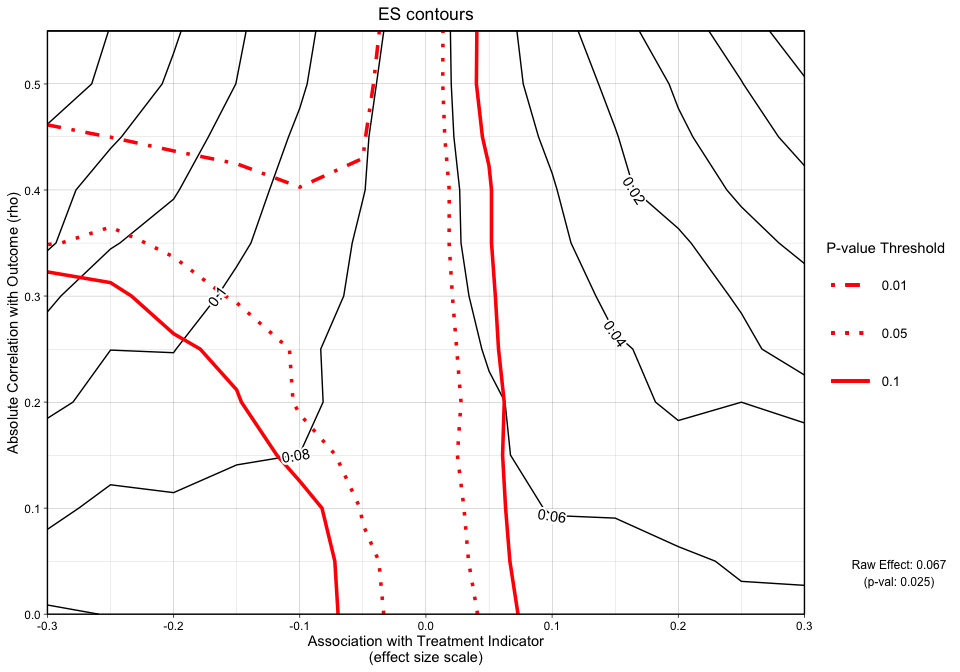
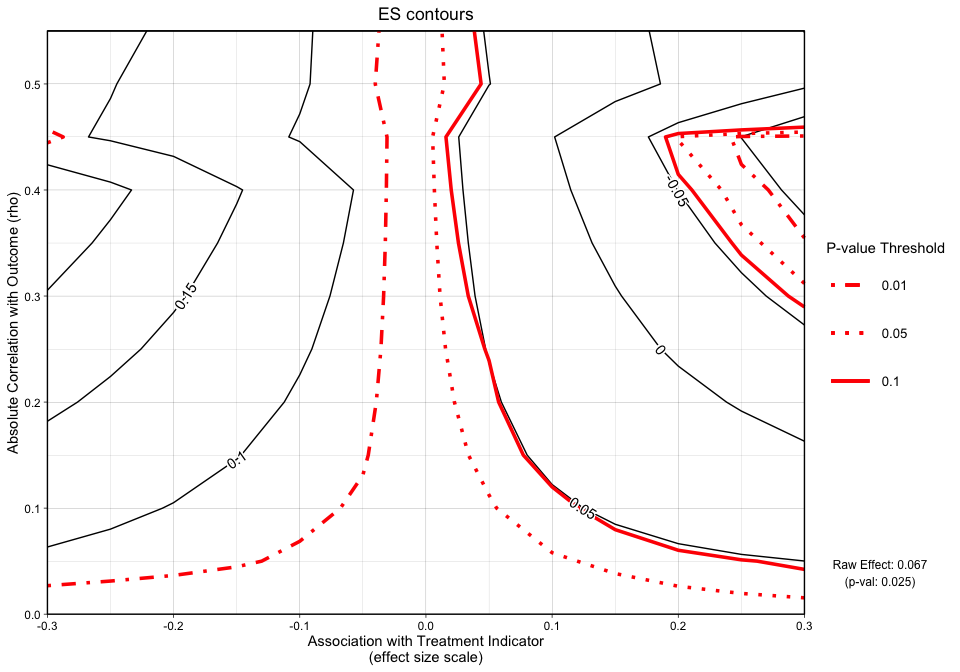
update vignette and documentation

diff --git a/README.md b/README.md
@@ -5,14 +5,14 @@
 # Introduction
 
 *Note: This is a work in progress.. This document was lasted upated
-2020-08-11 08:30:09*
+2020-09-21 11:08:53*
 
 The <ins>O</ins>mitted <ins>V</ins>ariable <ins>T</ins>ool (`OVtool`)
 package was designed to assess the sensitivity of research findings to
 omitted variables when estimating causal effects using propensity score
 (PS) weighting. This package includes graphics and summary results that
 will enable a researcher to quantify the impact an omitted variable
-would have on their results. Burgette et al. (in preparation) describe
+would have on their results. Burgette et al. (in preparation) describe
 the methodology behind the primary function in this package, `ov_sim()`.
 This document presents syntax for the implementation of the `ov_sim()`
 function and provides an example of how to interpret the packages’
@@ -75,21 +75,6 @@ you restart your R session after running:*
 ``` r
 # install.packages("devtools")
 devtools::install_github("jpane24/OVtool") 
-```
-
-    #> 
-    #>      checking for file ‘/private/var/folders/ks/ll8v5y8x6rz_cgvtgk6zln90b6fd3c/T/Rtmpr3Kadg/remotes1698f6c96971f/jpane24-OVtool-8e2740f/DESCRIPTION’ ...  ✓  checking for file ‘/private/var/folders/ks/ll8v5y8x6rz_cgvtgk6zln90b6fd3c/T/Rtmpr3Kadg/remotes1698f6c96971f/jpane24-OVtool-8e2740f/DESCRIPTION’
-    #>   ─  preparing ‘OVtool’:
-    #>      checking DESCRIPTION meta-information ...  ✓  checking DESCRIPTION meta-information
-    #>   ─  checking for LF line-endings in source and make files and shell scripts
-    #>   ─  checking for empty or unneeded directories
-    #>   ─  building ‘OVtool_1.0.0.tar.gz’
-    #>      Warning: invalid uid value replaced by that for user 'nobody'
-    #>    Warning: invalid gid value replaced by that for user 'nobody'
-    #>      
-    #> 
-
-``` r
 # we recommend restarting your R session after running the previous line of code for the first time on your machine. 
 library(OVtool)
 ```
@@ -194,8 +179,8 @@ results for their outcome model. There are two options the researcher
 can take to input the relevant information to get their outcome results
 using `outcome_model()`.
 
-  - Input a `ps.object` from `TWANG` and a `stop.method` (e.g.
-    `"ks.max"`) or
+  - Input a `ps.object` from `TWANG` and a `stop.method`
+    (e.g. `"ks.max"`) or
   - Input a vector of `weights`, a data frame containing the `data`
     used, and the column name representing the treatment indicator,
     `treatment`.
@@ -297,7 +282,7 @@ small, 0.4 would be moderate and 0.6 would be large (Cohen, J., 1995).
 We define rho in this setting as the absolute correlation the unobserved
 covariate (U) has with the outcome of interest, with larger values
 indicating stronger relationships between U and the outcome. Please see
-Burgette et al. (in progress) for additional details on the methodology
+Burgette et al. (in progress) for additional details on the methodology
 used by `OVtool`.
 
 ``` r
@@ -400,8 +385,7 @@ scale. The black lines represent effect size contours that run along the
 grid. The PS weighted treatment effect of Treatment A versus Treatment B
 equals 0.079 and is significant with a p-value equal to 0.004. However,
 looking at this graphic alone will not give us an idea of how sensitive
-the effect is.
-    
+the effect is. 
 
 ``` r
 plot.ov(ovtool_results_twang, print_graphic = "2", col = "color")
@@ -416,8 +400,7 @@ Figure 2 is a different variation of Figure 1, but now adds p-value
 contours. This graphic will allow the user to see what treatment effect
 on the effect size scale will switch the significance level at critical
 p-values (i.e. 0.05). This graphic will now give the user an idea of how
-sensitive the effect is.
-    
+sensitive the effect is. 
 
 ``` r
 plot.ov(ovtool_results_twang, print_graphic = "3", col = "color")
@@ -462,8 +445,7 @@ These results were produced with 50 simulations (`n_reps`) of the
 unobserved confounder. If the contours are rigid or the user wants to
 add simulations, they can call `add_reps` and specify the number
 (`more_reps`) of additional simulations. Once this is completed, a user
-can recreate the plots. Example code to add
-repetitions:
+can recreate the plots. Example code to add repetitions:
 
 ``` r
 # If you want to add repetitions, run the following line. You may change more_reps
@@ -613,10 +595,10 @@ specifying the correct `estimand`. Under the ATT setting, our effect
 size is 0.07 with a p-value of 0.025. We now want to understand how
 sensitive our result is to unobserved confounders.
 
-Below we will run the `ov_sim` function, noticing that the parameters
-in our function call to `ov_sim` remain the same. The `estimand` 
-parameter is stored in `results_att` and is carried forward throughout 
-the remainder of the analysis.
+Below we will run the `ov_sim` function; we notice that in our call to
+`ov_sim` the parameters remain the same. The `estimand` parameter is
+stored in `results_att` and carried forward throughout the remainder of
+the analysis.
 
 ``` r
 ovtool_results_twang_att = ov_sim(model_results=results_att, 
@@ -626,7 +608,7 @@ ovtool_results_twang_att = ov_sim(model_results=results_att,
                                                       "mhtrt_0", "dss9_0"),
                                   es_grid = NULL,
                                   rho_grid = seq(0, 0.40, by = 0.05), 
-                                  n_reps = 200,
+                                  n_reps = 50,
                                   progress = TRUE)
 ```
 
@@ -652,13 +634,11 @@ ovtool_results_twang_att = ov_sim(model_results=results_att,
     #> [1] "92% Done!"
     #> [1] "100% Done!"
 
-The number of repetitions needed for simulating the unobserved
-confounder in this example is greater in the ATT setting than
-the ATE setting. Even once we observe our graphical results from
-200 repetitions, the contours do not look smooth. We recommend 
-calling the `OVtool::add_reps` function and specifying 
-`more_reps` to the number of additional simulations of the 
-unobserved confounder you desire.
+We have found that the number of repetitions needed in the ATT setting
+is greater than in the ATE setting. Once we observe our graphical
+results, if the contours do not look smooth, we recommend calling
+`OVtool::add_reps` and specifying `more_reps` to the number of
+additional simulations of the unobserved confounder you desire.
 
 ``` r
 plot.ov(ovtool_results_twang_att, print_graphic = "1", col = "bw")
@@ -666,11 +646,10 @@ plot.ov(ovtool_results_twang_att, print_graphic = "1", col = "bw")
 
 <img src="inst/fig1_att-1.png" style="display: block; margin: auto;" />
 
-The contours shown in the figure above are relatively smooth but 
-adding additional repetitions of the simulated unobserved confounder
-may smooth the out the bumps in the contours. In this example we 
-choose to simulate our unobserved confounder an additional 200 
-times. The user can do this by running the following line of code:
+The contours shown in Figure 4 are relatively smooth but we would like
+to smooth them out if possible by simulating our unobserved confounder
+an additional 200 times. The user can do this by running the following
+lines of code.
 
 ``` r
 # If you want to add repetitions, run the following line. You may change more_reps
@@ -731,10 +710,8 @@ summary.ov(object = ovtool_results_twang_att, model_results = results_att)
     #> [1] "88% Done!"
     #> [1] "100% Done!"
     #> [1] "Recommendation for reporting the sensitivity analyses"
-    #> [1] "The sign of the estimated effect is expected to remain consistent when simulated unobserved confounders have the same strength of associations with the treatment indicator and outcome that are seen in 7 of the 8 observed confounders. In the most extreme observed case, eps7p_0, the estimated effect size is 101 percent of the original, but in the opposite direction. The sign of the estimate would not be expected to be preserved for unobserved confounders that have the same strength of association with the treatment indicator and outcome as eps7p_0."
-    #> [1] "Statistical significance at the 0.05 level is expected to be robust to unobserved confounders with strengths of associations with the treatment indicator and outcome that are seen in 1 of the 8 observed confounders. In the most extreme observed case, the p-value would be expected to increase from 0.025 to 0.988. Significance at the 0.05 level would not be expected to be preserved for unobserved confounders that have the same strength of association with the treatment indicator and outcome as eps7p_0, sfs8p_0, sati_0, ada_0, tss_0, mhtrt_0, dss9_0."
-
-The sign of the estimated effect is expected to remain consistent when simulated unobserved confounders have the same strengthof association with the treatment indicator and outcome that are seen in 7 of the 8 observed confounders. In the most extreme observed case, `eps7p_0`, the estimated effect size is 101 percent of the original, but in the opposite direction. The sign of testimate would not be expected to be preserved for unobserved confounders that have the same strength of association with the treatment indicator and outcome as `eps7p_0`. Statistical significance at the 0.05 level is expected to be robust to unobserved confounders with strengths of associations with the treatment indicator and outcome that are seen in 1 of the 8 observed confounders. In the most extreme observed case, the p-value would be expected to increase from 0.025 to 0.988. Significance at the 0.05 level would not be expected to be preserved for unobserved confounders that have the same strength of association with the treatment indicator and outcome as `eps7p_0`, `sfs8p_0`, `sati_0`, `ada_0`, `tss_0`, `mhtrt_0`, and `dss9_0`.
+    #> [1] "The sign of the estimated effect is expected to remain consistent when simulated unobserved confounders have the same strength of association with the treatment indicator and outcome that are seen in the observed confounders. In the most extreme observed case, the estimated effect size is reduced by 96 percent."
+    #> [1] "Statistical significance at the 0.05 level is expected to be robust to unobserved confounders with strengths of associations with the treatment indicator and outcome that are seen in 1 of the 8 observed confounders. In the most extreme observed case, the p-value would be expected to increase from 0.025 to 0.953. Significance at the 0.05 level would not be expected to be preserved for unobserved confounders that have the same strength of association with the treatment indicator and outcome as eps7p_0, sfs8p_0, sati_0, ada_0, tss_0, mhtrt_0, dss9_0."
 
 # Conclusion
 
